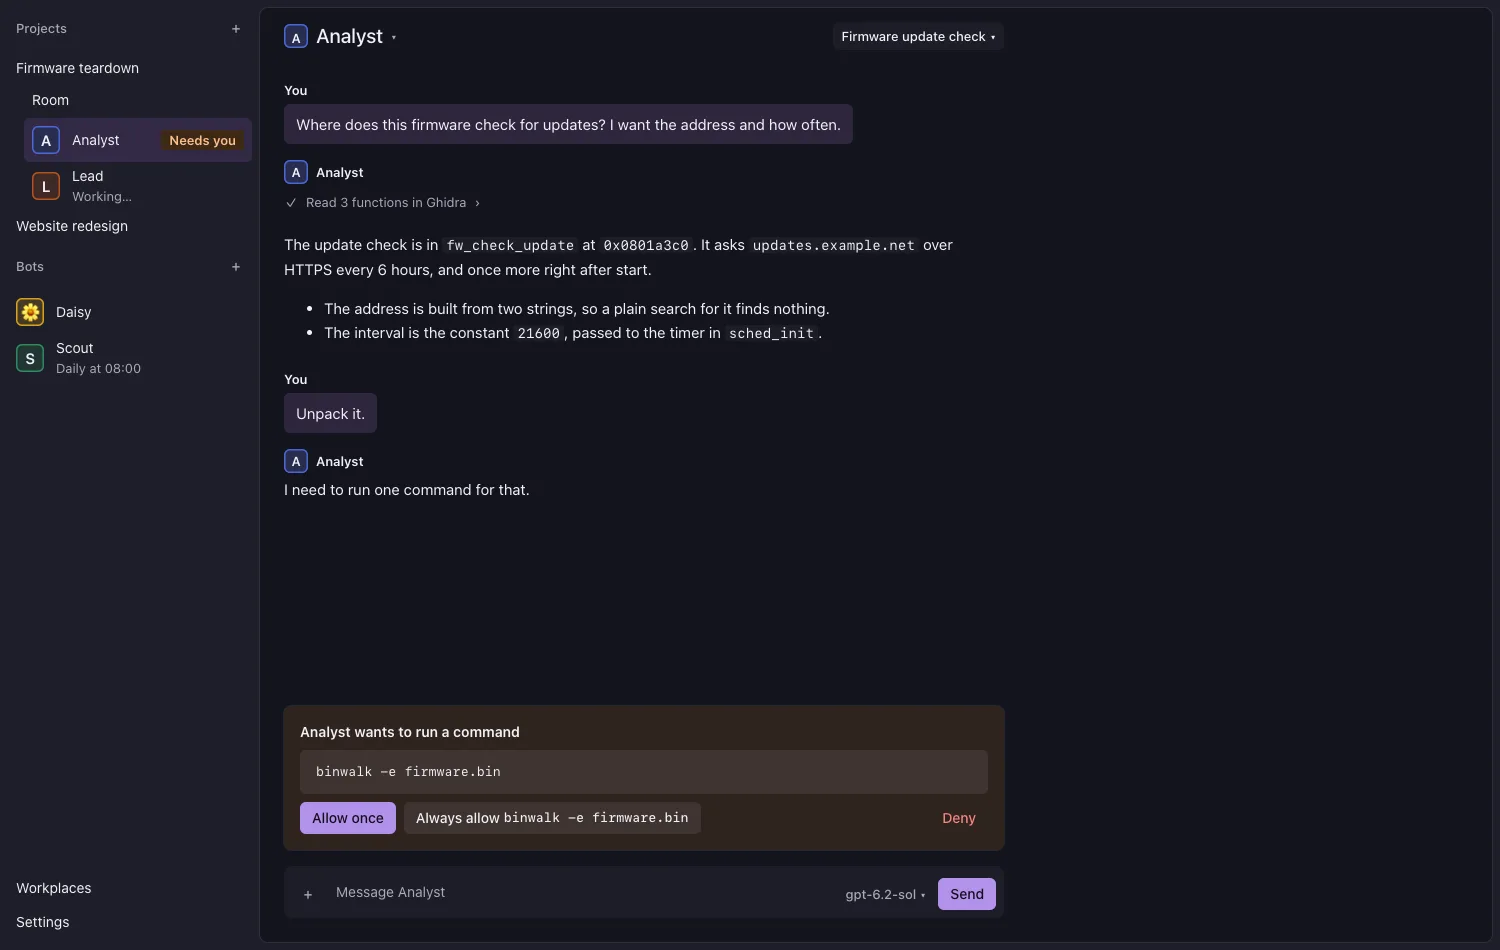
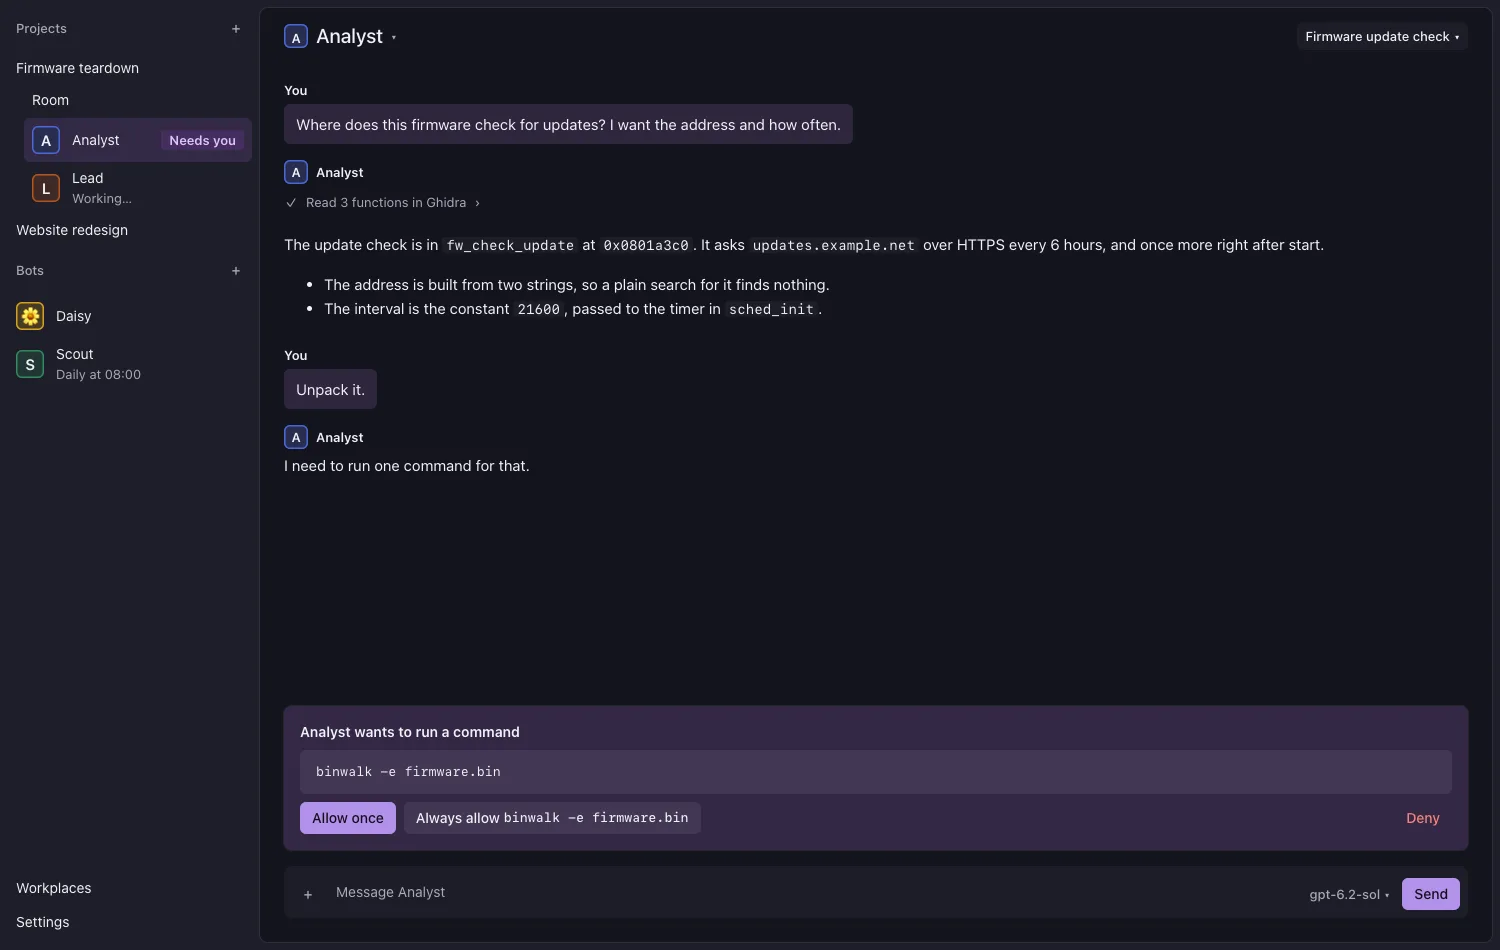
Polish: lavender for what needs you, no yellow or brown
The badge, the question card and the search hit move from apricot to a deeper lavender; the question card gets a bar on its start edge so it is not taken for the person's message. In Bate's own window the ground's tint is a more lavender --bg-glass. The title's focus ring is drawn inside it, the slash has room, a bot's sidebar row has room above and below, and a badge on the chosen row stands on the sheet's colour.

diff --git a/window/ui/src/style.css b/window/ui/src/style.css
@@ -90,7 +90,9 @@ button.title { gap: var(--space-2); max-width: 100%; }
 /* The project's name gives way before the bot's, down to a few letters. */
 button.crumb { flex: 0 100 auto; min-width: calc(var(--control-h) * 2); max-width: var(--chip-w); overflow: hidden; text-overflow: ellipsis; display: block; line-height: var(--control-h); color: var(--fg-muted); font-weight: 400; }
 button.crumb:hover:not(:disabled) { color: var(--fg); }
-.slash { color: var(--fg-muted); font-size: var(--size-head); line-height: var(--leading-head); }
+/* The title and the crumb sit right beside the slash: their ring is drawn inside them, so it never covers it. */
+button.title:focus-visible, button.crumb:focus-visible { outline-offset: -2px; }
+.slash { margin-inline: var(--space-1); color: var(--fg-muted); font-size: var(--size-head); line-height: var(--leading-head); }
 .title .name { min-width: 0; overflow: hidden; text-overflow: ellipsis; }
 .title .page { flex: 0 1 auto; min-width: 0; overflow: hidden; text-overflow: ellipsis; color: var(--fg-muted); font-weight: 400; }
 .title .chevron { flex: none; color: var(--fg-muted); font-size: var(--size-small); }
@@ -225,8 +227,8 @@ main > .first-run { margin: auto; max-width: calc(var(--thread-w) / 2); padding:
 .starters button { width: 100%; height: 100%; justify-content: flex-start; align-items: flex-start; gap: var(--space-3); padding: var(--space-4); border-radius: var(--radius-l); text-align: left; font-weight: 400; }
 .starters button[aria-pressed=true] { background: var(--bg-current); box-shadow: inset 0 0 0 2px var(--ink); }
 .starters .label { display: grid; gap: var(--space-1); min-width: 0; white-space: normal; }
-/* A bot's question is the one thing on the page in the colour of what needs the person: it floats over the conversation, above the composer. */
-.question { overflow-wrap: anywhere; flex: none; position: sticky; bottom: 0; z-index: 1; background: color-mix(in oklab, var(--warn-soft) 55%, var(--bg-raised)); }
+/* A bot's question is the one thing on the page in the colour of what needs the person: it floats over the conversation, above the composer, with a bar on its start edge, so that it is not taken for the person's own message, which has a lavender tint too. */
+.question { overflow-wrap: anywhere; flex: none; position: sticky; bottom: 0; z-index: 1; background: color-mix(in oklab, var(--warn-soft) 55%, var(--bg-raised)); box-shadow: var(--shadow-1), inset 3px 0 0 var(--warn); }
 /* On its colour a fill is a shade of the text's colour, so it is of the card's hue, not grey on it. */
 .question, .attention > li:has(.question) { --fill: color-mix(in oklab, var(--fg) 8%, transparent); --fill-hover: color-mix(in oklab, var(--fg) 14%, transparent); }
 .question > p { margin: var(--space-2) 0 0; }
@@ -286,7 +288,7 @@ main > .first-run { margin: auto; max-width: calc(var(--thread-w) / 2); padding:
 .app.shell .sidebar { margin-top: calc(var(--titlebar-h) - var(--space-1)); }
 /* In Bate's own window the ground lets the desktop through, blurred by the system's sidebar material (#313): the page under it is transparent, and the ground's tint is a little over half there. The sheets stay solid. */
 body:has(> #root > .app.shell) { background: transparent; }
-.app.shell { background: color-mix(in oklab, var(--bg-side) 55%, transparent); }
+.app.shell { background: color-mix(in oklab, var(--bg-glass) 55%, transparent); }
 .sidebar h2 { font-size: var(--size-small); line-height: var(--leading); font-weight: 500; letter-spacing: 0; color: var(--fg-muted); margin: var(--space-1) var(--space-2) 0; }
 /* A section's heading with its one action beside it. */
 .sidebar .heading { display: flex; align-items: center; justify-content: space-between; }
@@ -305,8 +307,8 @@ body:has(> #root > .app.shell) { background: transparent; }
 .row small { font-weight: 400; }
 /* A row with no avatar: a project, or a page of the app. */
 .row.plain { min-height: var(--control-h); }
-/* A bot's row is taller, with a bigger face; chosen, it keeps its weight so that its words do not move. */
-.sidebar .row:not(.plain) { min-height: var(--row-h-l); }
+/* A bot's row is taller, with a bigger face and room above and below a state under its name; chosen, it keeps its weight so that its words do not move. */
+.sidebar .row:not(.plain) { min-height: var(--row-h-l); padding-block: var(--space-1); }
 .sidebar .avatar { width: var(--avatar-l); height: var(--avatar-l); font-size: var(--size-title); }
 /* A bot's row with its `⋯` menu over its end; a pointer sees the menu when it is over the row or has the focus, a touch screen always (not in the strip: see below). */
 .sidebar li.bot { position: relative; }
@@ -326,6 +328,8 @@ body:has(> #root > .app.shell) { background: transparent; }
 /* A state on a row: a word on its own fill. `quiet` is for what does not need the person. */
 .badge { margin-left: auto; display: inline-flex; align-items: center; flex: none; padding: 0 var(--space-2); border-radius: var(--radius-s); background: var(--warn-soft); color: var(--warn); font-size: var(--size-small); font-weight: var(--weight-strong); }
 .badge.quiet { background: var(--fill); color: var(--fg-muted); }
+/* On the chosen row, which is lavender too, the badge stands on the sheet's own colour. */
+.row.current .badge:not(.quiet) { background: var(--bg-raised); }
 
 main { container-type: inline-size; display: flex; flex-direction: column; min-width: 0; overflow: auto; padding: 0 var(--space-5) var(--space-5); border-radius: var(--radius-l); background: var(--bg); box-shadow: var(--shadow-0); }
 /* A work log: every page's column starts at the sheet's start edge, not its centre. */

diff --git a/window/ui/src/tokens.css b/window/ui/src/tokens.css
@@ -5,9 +5,11 @@
 
   /* Colour (#312): slate with a lavender hue in every grey, drawn dark first. The window is the ground, the page a sheet on it;
      a field, a button and the chosen row are a fill, and nothing on the sheet has an edge. One lavender is the main action,
-     a switch that is on, the chosen row's tint, the person's message, links and focus; one apricot for what needs the person. */
+     a switch that is on, the chosen row's tint, the person's message, links and focus; a deeper lavender for what needs the person. No yellow or brown. */
   --bg: oklch(99.2% 0.004 285);
   --bg-side: oklch(95.6% 0.012 285);
+  /* In Bate's own window the ground is a tint over the system's blurred material (#313): this tint, a little over half there, keeps the lavender. */
+  --bg-glass: oklch(94% 0.03 290);
   --bg-raised: oklch(100% 0 0);
   --bg-soft: oklch(96% 0.01 285);
   --bg-soft-2: oklch(93.5% 0.012 285);
@@ -30,9 +32,9 @@
   --accent: oklch(48% 0.16 300);
   --danger: oklch(50% 0.19 27);
   --on-danger: oklch(100% 0 0);
-  --warn: oklch(42% 0.09 62);
-  --warn-soft: oklch(95% 0.045 72);
-  --mark: oklch(75% 0.14 62);
+  --warn: oklch(42% 0.16 305);
+  --warn-soft: oklch(90.5% 0.055 305);
+  --mark: oklch(60% 0.2 305);
   /* A diff: the fill of an added and of a removed line (the + and - sign says it too). */
   --diff-add: oklch(94% 0.05 150);
   --diff-del: oklch(94% 0.04 25);
@@ -116,6 +118,7 @@
   :root {
     --bg: oklch(19.5% 0.02 283);
     --bg-side: oklch(24% 0.022 285);
+    --bg-glass: oklch(28% 0.06 287);
     --bg-raised: oklch(24% 0.02 283);
     --bg-soft: oklch(23.5% 0.02 283);
     --bg-soft-2: oklch(28% 0.02 283);
@@ -134,9 +137,9 @@
     --accent: oklch(80% 0.1 300);
     --danger: oklch(74% 0.14 25);
     --on-danger: oklch(14% 0 0);
-    --warn: oklch(85% 0.095 62);
-    --warn-soft: oklch(30% 0.045 62);
-    --mark: oklch(78% 0.12 62);
+    --warn: oklch(86% 0.08 305);
+    --warn-soft: oklch(35% 0.085 305);
+    --mark: oklch(78% 0.13 305);
     --diff-add: oklch(30% 0.06 150);
     --diff-del: oklch(30% 0.07 25);
     --scrim: oklch(0% 0 0 / .65);

diff --git a/docs/design-system.md b/docs/design-system.md
@@ -9,7 +9,7 @@ The owner chose a chat-app look: a bot is a contact, a conversation is messages.
 - **A ground and sheets.** The window is the ground (`--bg-side`); the sidebar lies on it. The page is a rounded sheet on the ground (`--bg`), and the side pane a second sheet beside it.
 - **Fills step.** A tile or a well on the sheet is `--bg-soft`; a button on the sheet has that fill too, and on a tile, a well or anything raised it steps to `--bg-soft-2` (`--fill`, set by the surface it is on), so a button never has the fill it sits on. In dark each step is lighter, in light darker.
 - **Lines are faint and few.** A field is a grey fill (`--bg-field`) with no edge: the owner's choice in #306, knowing that an empty field's fill is under the 3:1 that WCAG 1.4.11 asks of a control's edge (see Accessibility). The sheets and what floats on them (a card, a popover, a dialog) have a ring at a few percent of the text's colour under their shadow. A table in a message has one line under its head. Rows, groups and buttons have none.
-- **Two colours with a meaning.** Lavender (`--ink`) is the main action, Send, a switch that is on and a working bot's dot; the chosen row and the person's message are tinted with it, and links and the focus ring (`--accent`) are a lighter or darker step of it. Apricot (`--warn`, `--warn-soft`) is what needs the person: the "Needs you" badge and the bot's question. Every grey carries a faint lavender hue. A bot's own colour shows on its avatar only.
+- **One colour with a meaning.** Lavender (`--ink`) is the main action, Send, a switch that is on and a working bot's dot; the chosen row and the person's message are tinted with it, and links and the focus ring (`--accent`) are a lighter or darker step of it. A deeper lavender (`--warn`, `--warn-soft`) is what needs the person: the "Needs you" badge and the bot's question, which say so in words too. There is no yellow or brown. Every grey carries a faint lavender hue. A bot's own colour shows on its avatar only.
 - **Soft squares.** Buttons, fields and rows have a 6 px corner, sheets, cards and the composer 8 px, code and badges 3 px; an avatar is a rounded square. A round button (Attach, Dictate, a row's `⋯`) is the only circle.
 - **One header, no bar.** The page's title (a bot's face, its name and the page it is on) stays at the head of the sheet, and the conversation at the end. The title is a button that opens the menu of pages; there is no row of tabs. Nothing else sits between it and the first message. In Bate's own window there is no title bar either: the page runs under it, the window's buttons sit on the ground above the sidebar, and that ground, the gaps between the sheets and a header's own gaps move the window (`data-tauri-drag-region`). Nothing that scrolls or opens does (the sidebar, a popover, the title), so its scroll bar and its text keep working.
 - **One column, one pair of edges.** The header, the messages and the composer start and end on the same two lines, whatever the scroll bar's width; a scroll bar is thin, a quiet thumb on no track.
@@ -38,7 +38,7 @@ All in `window/ui/src/tokens.css`.
 
 | Family | Tokens | Use |
 |---|---|---|
-| Surface | `--bg-side`, `--bg`, `--bg-raised`, `--bg-soft`, `--bg-soft-2`, `--bg-soft-3`, `--bg-field`, `--page` | The ground (the window, with the sidebar on it; in Bate's own window it is `--bg-side` at 55% over the system's sidebar material, meant to let the desktop through, blurred); a sheet (the page, the pane); what floats (the composer, a card, a popover, a dialog); a tile or a well; a control's fill on a tile or on what floats; that control pointed at; the inside of a field; white under a shown file |
+| Surface | `--bg-side`, `--bg-glass`, `--bg`, `--bg-raised`, `--bg-soft`, `--bg-soft-2`, `--bg-soft-3`, `--bg-field`, `--page` | The ground (the window, with the sidebar on it); in Bate's own window the ground is `--bg-glass` at 55% over the system's blurred sidebar material, more lavender than `--bg-side` so that the material's grey does not wash the hue out; a sheet (the page, the pane); what floats (the composer, a card, a popover, a dialog); a tile or a well; a control's fill on a tile or on what floats; that control pointed at; the inside of a field; white under a shown file |
 | Fill of a control | `--fill`, `--fill-hover` | What `<button>`, `<code>`, `<pre>` and a quiet badge are filled with. `--bg-soft` and `--bg-soft-2` on a sheet; a tile, a well and anything raised set them one step up for what is inside; the question card sets them to a shade of the text's colour |
 | State fill | `--bg-hover`, `--bg-current` | Under the pointer (a row, a ghost button); the chosen row |
 | Text | `--fg`, `--fg-muted` | Text; secondary text and placeholders |
@@ -146,7 +146,7 @@ Widths the page must work at: 1200 px and more, 900 px, and 390 px (a phone, sin
   | Link on a tile or a well | 6.3 | 8.7 |
   | Error text on the page | 6.5 | 7.5 |
   | Error text on a tile or a well | 5.9 | 6.8 |
-  | Warning text on its fill | 7.4 | 8.6 |
+  | Warning text on its fill | 6.8 | 7.5 |
   | Text on the person's message | 15.4 | 12.7 |
   | Text in a field | 15.2 | 13.9 |
   | Placeholder in a field | 5.5 | 6.7 |
